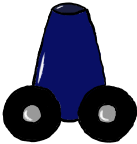
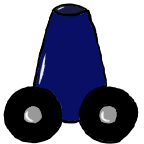
cannonの画像を修正、追加

diff --git a/ufo/Assets/Script/Player/SpriteChange.cs b/ufo/Assets/Script/Player/SpriteChange.cs
@@ -1,0 +1,33 @@
+using System.Collections;
+using System.Collections.Generic;
+using UnityEngine;
+
+public class SpriteChange : MonoBehaviour
+{
+    [SerializeField]
+    private GameObject cannonSprite;
+    [SerializeField]
+    private Sprite secondSprite;
+    [SerializeField]
+    private Sprite thirdSprite;
+
+    private int hpCount;
+
+    // Start is called before the first frame update
+    void Start()
+    {
+        
+    }
+
+    // Update is called once per frame
+    void Update()
+    {
+        
+    }
+
+    private void OnTriggerEnter2D(Collider2D other){
+        if (other.gameObject.tag == "beam"){
+            
+        }
+    }
+}

diff --git a/ufo/Assets/Script/UI/ScoreController.cs b/ufo/Assets/Script/UI/ScoreController.cs
@@ -5,7 +5,7 @@ using UnityEngine.UI;
 
 public class ScoreController : MonoBehaviour
 {
-    private int score = 0;
+    public static int score = 0;
 
     [SerializeField]
     private Text scoreText;
